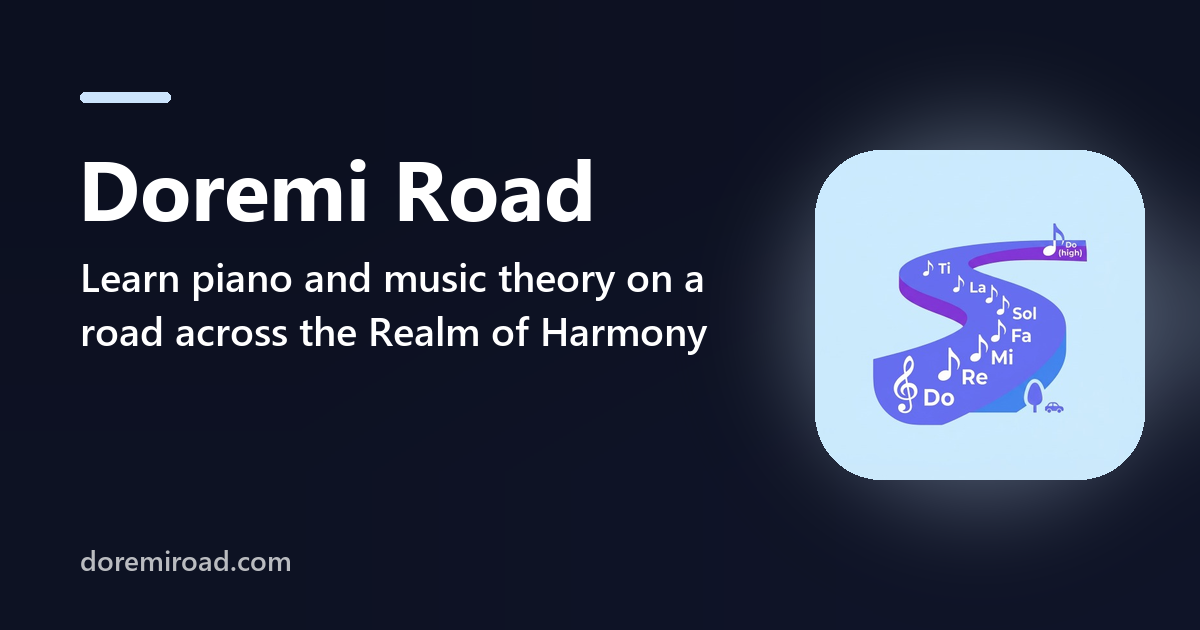
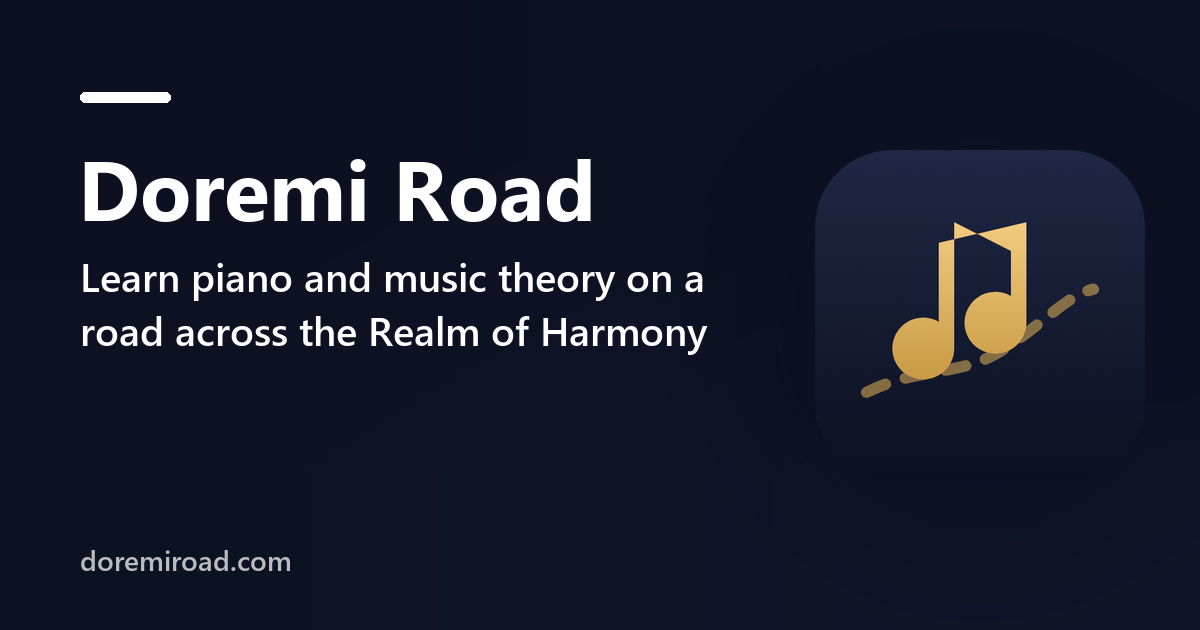
SEO: valid schema.org fields (availableLanguage on ServiceChannel, no browserRequirements on games)

Changed region(s): [[0.6475, 0.181, 1.0, 0.8444], [0.0617, 0.1206, 0.1542, 0.181]]

diff --git a/server_code/seo_routes.py b/server_code/seo_routes.py
@@ -60,12 +60,12 @@ SEO = {
  ],
  "site": "https://doremiroad.com",
  "updated": "2026-11-09",
- "icon": "Gemini_Generated_Image_xjjsiuxjjsiuxjjs.jpg",
+ "icon": "icon-512.png",
  "colors": {
   "bg": "#0c1020",
   "ink": "#ffffff",
-  "brand": "#cce4fc",
-  "on": "#16181d"
+  "brand": "#0c0c24",
+  "on": "#ffffff"
  }
 }
 
@@ -148,18 +148,25 @@ def _ld(o):
         app["serviceType"] = s.get("service_type", s.get("tagline", s["title"]))
         app["provider"] = {"@id": "https://arkvital.com/#org"}
         app["areaServed"] = "Worldwide"
-        app["availableChannel"] = {"@type": "ServiceChannel", "serviceUrl": o + "/", "name": "Web browser"}
+        # availableLanguage belongs on the channel (schema.org has no Service.availableLanguage)
+        app["availableChannel"] = {"@type": "ServiceChannel", "serviceUrl": o + "/", "name": "Web browser",
+                                   "availableLanguage": s.get("lang", "en")}
         del app["inLanguage"], app["publisher"], app["keywords"]
-        app["availableLanguage"] = s.get("lang", "en")
+    if app["@type"] == "ProfessionalService":
+        # an Organization: knowsLanguage, not inLanguage (a CreativeWork field)
+        app["knowsLanguage"] = app.pop("inLanguage")
+        del app["publisher"]
     if app["@type"] in ("WebApplication", "VideoGame"):
         app["applicationCategory"] = s.get("category", "WebApplication")
         app["operatingSystem"] = "Any (web browser)"
+    if app["@type"] == "WebApplication":
         app["browserRequirements"] = "Requires JavaScript and a modern web browser"
+    if app["@type"] in ("WebApplication", "VideoGame"):
         if s.get("features"):
             app["featureList"] = s["features"]
     if s.get("free"):
         app["offers"] = {"@type": "Offer", "price": "0", "priceCurrency": "CAD"}
-    if s.get("audience"):
+    if s.get("audience") and app["@type"] != "ProfessionalService":
         app["audience"] = {"@type": "Audience", "audienceType": s["audience"]}
     page = {"@type": "AboutPage", "@id": o + "/about#page", "url": o + "/about", "name": "About " + s["name"],
             "about": {"@id": o + "/#app"}, "isPartOf": {"@id": o + "/#site"}}
